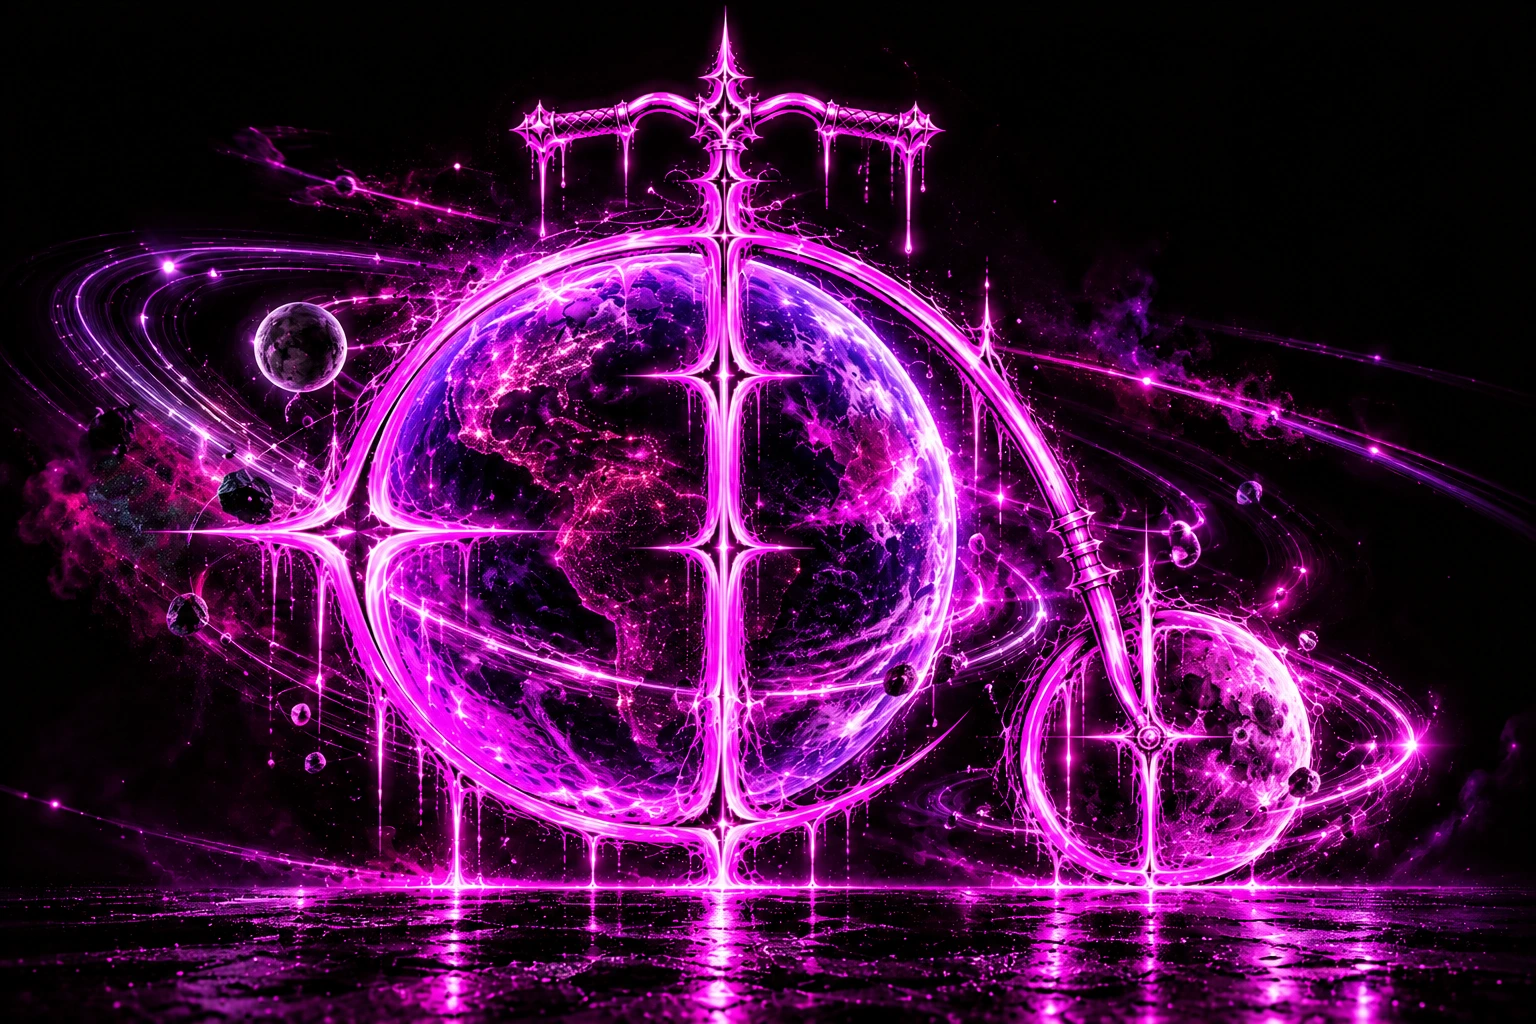
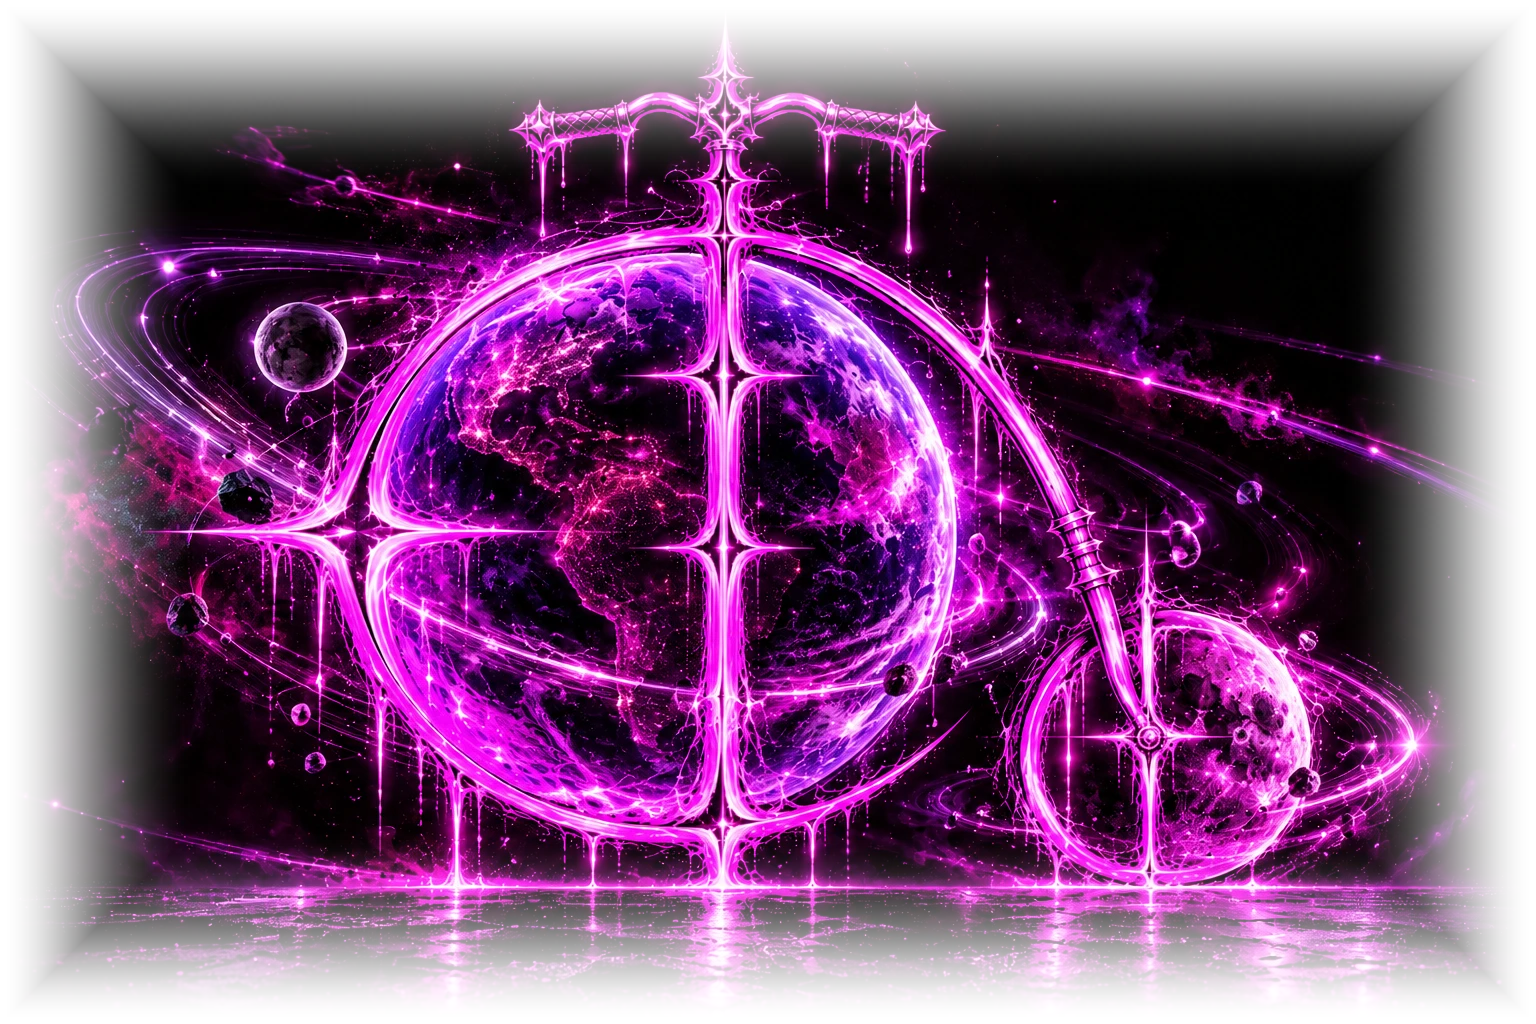
Entrada: sin símbolo bajo las letras, letras más grandes, bici planetaria con la cruz atravesando la M
Claude-Session: https://claude.ai/code/session_01L4De53tWkdasUVUwkvh1YC

diff --git a/index.html b/index.html
@@ -126,17 +126,12 @@
   }
 
 
-  /* ---------- universo: penny-farthing cósmica detrás del logo; Tierra y Luna giran lento, la cruz queda fija ---------- */
-  .cosmos{position:absolute; left:50%; top:50%; width:min(100%,1300px); transform:translate(-50%,-47%); z-index:0; pointer-events:none; opacity:.55;
-    -webkit-mask-image:radial-gradient(ellipse 50% 50% at 50% 50%,#000 55%,transparent 100%); mask-image:radial-gradient(ellipse 50% 50% at 50% 50%,#000 55%,transparent 100%);}
-  .cosmos svg{width:100%; height:auto; display:block}
-  .logo-wrap{position:relative; z-index:2}
   .hint{position:relative; z-index:3}
 
   /* ---------- wordmark: the real Krimelh logo (original image, untouched) with a per-letter glow layer ---------- */
   .logo-wrap{
     width:100%;
-    margin:0 auto;
+    margin:0 auto 3vh;
   }
   .logo-wrap svg{
     width:100%;
@@ -354,8 +349,10 @@
 
 <main class="stage">
   <div class="content">
-    <div class="cosmos" aria-hidden="true"><svg viewBox="0 0 1536 1024" aria-hidden="true" focusable="false">
-<defs>
+        <div class="logo-wrap">
+<svg xmlns="http://www.w3.org/2000/svg" viewBox="190 0 1330 960" role="img" aria-label="KRIMELH">
+  <title>KRIMELH</title>
+  <g class="cosmos" style="mix-blend-mode:screen" pointer-events="none" aria-hidden="true"><svg x="249.0" y="193.4" width="1167.4" height="778.2" viewBox="0 0 1536 1024"><defs>
 <clipPath id="cscT"><circle cx="666" cy="536" r="278"/></clipPath>
 <clipPath id="cscL"><circle cx="1172" cy="747" r="132"/></clipPath>
 <radialGradient id="csshT" cx="50%" cy="50%" r="50%"><stop offset="0.55" stop-color="#000" stop-opacity="0"/><stop offset="1" stop-color="#12001c" stop-opacity=".62"/></radialGradient>
@@ -378,13 +375,8 @@
 <image href="assets/entrada/cosmos/tex_luna.webp" x="1040" y="615" width="528" height="264"/>
 <image href="assets/entrada/cosmos/tex_luna.webp" x="1568" y="615" width="528" height="264"/></g>
 <circle cx="1172" cy="747" r="132" fill="url(#csshL)"/></g>
-<image href="assets/entrada/cosmos/ov_luna.webp" x="1025" y="600" width="294" height="294"/>
-</svg>
-</div>
-    <div class="logo-wrap">
-<svg xmlns="http://www.w3.org/2000/svg" viewBox="0 0 1698 926" role="img" aria-label="KRIMELH">
-  <title>KRIMELH</title>
-  <image width="1698" height="926" href="assets/entrada/logo-base.png"/>
+<image href="assets/entrada/cosmos/ov_luna.webp" x="1025" y="600" width="294" height="294"/></svg></g>
+  <image width="1698" height="926" href="assets/entrada/logo-base-sin-cruz.png"/>
     <a href="reveal.html#k" aria-label="K section" data-letter="K"><image class="glow" x="174" y="0" width="535" height="788" href="assets/entrada/glow-K.png"/><path class="hit" d="M663,12 L655,12 L630,39 L625,50 L596,81 L586,81 L580,76 L576,52 L570,51 L565,54 L559,84 L553,89 L537,88 L532,91 L532,98 L543,102 L549,110 L544,127 L538,132 L527,133 L514,146 L499,168 L486,202 L480,207 L468,206 L462,198 L462,189 L471,163 L495,115 L495,108 L490,105 L478,105 L472,100 L469,91 L469,71 L459,69 L456,73 L453,135 L447,143 L440,145 L429,139 L426,129 L428,105 L420,95 L410,11 L404,0 L397,12 L391,141 L380,162 L374,167 L357,168 L310,150 L296,148 L291,151 L293,160 L323,172 L332,182 L330,192 L318,200 L318,210 L321,213 L332,213 L337,201 L343,196 L359,197 L366,203 L368,213 L364,219 L362,238 L356,243 L339,244 L335,248 L335,259 L342,264 L363,264 L369,272 L369,278 L354,297 L328,317 L275,338 L269,348 L253,360 L221,373 L217,377 L217,383 L227,386 L269,372 L302,353 L318,354 L326,363 L326,375 L315,396 L315,404 L324,407 L329,404 L329,394 L334,381 L351,362 L363,361 L369,366 L371,409 L341,453 L344,472 L337,481 L337,487 L343,491 L353,489 L348,468 L359,455 L371,454 L377,459 L380,465 L380,483 L373,492 L367,494 L369,505 L363,513 L363,522 L369,526 L385,525 L393,534 L393,573 L387,581 L379,585 L379,591 L389,596 L395,604 L396,629 L404,636 L409,653 L409,671 L401,683 L390,688 L390,695 L405,701 L411,709 L413,743 L419,743 L428,730 L429,674 L439,661 L436,640 L439,633 L440,600 L448,591 L463,590 L469,571 L479,564 L479,557 L463,540 L462,526 L464,514 L472,501 L471,488 L477,480 L487,477 L498,483 L500,520 L506,524 L517,525 L523,533 L524,575 L527,579 L544,576 L551,578 L557,585 L564,585 L583,564 L583,559 L589,551 L600,548 L608,540 L620,541 L632,535 L627,521 L615,504 L614,470 L620,462 L630,456 L630,449 L614,439 L612,422 L594,405 L589,384 L573,368 L559,371 L551,369 L522,338 L518,331 L519,316 L511,309 L509,299 L514,292 L517,258 L524,249 L535,245 L541,223 L591,167 L624,143 L625,133 L608,129 L602,121 L602,114 L606,104 L631,70 L646,56 L651,40 L665,21Z"/></a>
   <a href="reveal.html#r" aria-label="R section" data-letter="R"><image class="glow" x="479" y="126" width="296" height="409" href="assets/entrada/glow-R.png"/><path class="hit" d="M589,170 L586,175 L585,201 L579,209 L573,211 L562,222 L534,223 L527,229 L528,247 L533,248 L545,243 L560,246 L568,255 L568,263 L553,278 L551,291 L545,296 L526,296 L522,300 L522,310 L528,314 L541,313 L556,317 L572,336 L574,354 L566,364 L566,374 L578,386 L584,408 L601,426 L631,431 L646,423 L657,429 L662,490 L672,488 L674,478 L685,470 L685,460 L693,451 L705,452 L721,474 L729,476 L731,470 L725,450 L724,431 L714,424 L706,403 L698,393 L701,375 L665,340 L667,330 L681,320 L683,312 L690,306 L692,292 L713,269 L714,261 L697,254 L691,242 L684,236 L681,222 L675,214 L675,207 L680,199 L680,193 L676,188 L665,188 L662,191 L660,208 L654,213 L644,213 L635,210 L629,202 L633,188 L631,180 L608,182 L598,170Z"/></a>
   <a href="reveal.html#i" aria-label="I section" data-letter="I"><image class="glow" x="625" y="74" width="183" height="458" href="assets/entrada/glow-I.png"/><path class="hit" d="M732,117 L725,120 L724,160 L721,166 L709,172 L688,162 L683,165 L679,174 L680,183 L695,189 L701,197 L701,224 L695,232 L695,239 L707,250 L704,268 L708,274 L708,284 L701,293 L700,316 L689,322 L674,315 L669,318 L668,333 L692,347 L710,368 L709,386 L716,454 L722,474 L722,485 L727,488 L746,481 L740,466 L741,442 L748,414 L751,378 L760,368 L760,359 L755,350 L754,311 L760,303 L759,287 L754,280 L753,255 L764,242 L764,234 L758,226 L763,195 L752,190 L746,182 L748,172 L755,166 L753,151 L758,144 L758,137 L744,131Z"/></a>
@@ -392,7 +384,7 @@
   <a href="reveal.html#e" aria-label="E section" data-letter="E"><image class="glow" x="897" y="90" width="210" height="457" href="assets/entrada/glow-E.png"/><path class="hit" d="M983,133 L978,136 L975,192 L962,204 L961,211 L955,219 L940,225 L940,234 L950,243 L959,261 L956,294 L958,314 L947,327 L947,333 L959,346 L958,375 L944,389 L945,403 L940,410 L940,419 L952,424 L958,432 L960,487 L964,491 L978,493 L985,501 L993,504 L998,501 L998,459 L1001,440 L1012,428 L1025,420 L1054,419 L1061,412 L1056,370 L1053,366 L1040,363 L1034,355 L1040,326 L1060,311 L1060,283 L1046,275 L1044,265 L1050,257 L1060,252 L1058,234 L1063,221 L1054,208 L1060,191 L1057,182 L1049,182 L1040,191 L1033,193 L1021,189 L1006,193 L995,187 L991,136Z"/></a>
   <a href="reveal.html#l" aria-label="L section" data-letter="L"><image class="glow" x="984" y="82" width="168" height="464" href="assets/entrada/glow-L.png"/><path class="hit" d="M1093,125 L1085,128 L1085,136 L1077,145 L1063,149 L1047,146 L1040,151 L1040,160 L1053,173 L1050,189 L1056,197 L1053,226 L1057,232 L1057,256 L1045,273 L1045,279 L1054,289 L1054,296 L1050,302 L1051,327 L1058,336 L1059,362 L1047,373 L1050,416 L1056,424 L1056,440 L1049,449 L1027,466 L1027,472 L1035,475 L1051,469 L1059,471 L1067,481 L1068,499 L1073,502 L1082,495 L1082,476 L1094,465 L1105,440 L1099,370 L1102,352 L1101,326 L1104,320 L1104,309 L1099,302 L1099,295 L1105,287 L1105,280 L1097,267 L1097,220 L1104,206 L1108,185 L1102,181 L1085,178 L1079,170 L1080,161 L1087,152 L1101,150 L1107,144 L1101,131Z"/></a>
   <a href="reveal.html#h" aria-label="H section" data-letter="H"><image class="glow" x="1025" y="0" width="511" height="866" href="assets/entrada/glow-H.png"/><path class="hit" d="M1256,0 L1251,73 L1244,83 L1244,94 L1235,104 L1212,101 L1206,105 L1206,113 L1210,117 L1222,120 L1229,131 L1224,171 L1229,181 L1229,196 L1221,208 L1208,211 L1204,215 L1204,225 L1221,233 L1231,251 L1231,263 L1223,272 L1182,280 L1174,271 L1173,257 L1161,248 L1159,227 L1149,216 L1150,198 L1159,188 L1171,188 L1185,182 L1185,174 L1179,168 L1176,158 L1175,98 L1170,95 L1163,98 L1163,121 L1160,132 L1149,138 L1140,135 L1134,127 L1129,59 L1122,56 L1116,60 L1112,129 L1106,137 L1093,145 L1099,160 L1099,177 L1106,190 L1106,210 L1102,220 L1106,255 L1101,268 L1094,275 L1095,283 L1104,293 L1104,299 L1095,309 L1095,320 L1108,333 L1105,356 L1109,364 L1110,385 L1107,397 L1095,405 L1092,419 L1095,443 L1084,462 L1084,481 L1068,496 L1068,550 L1073,553 L1081,550 L1081,516 L1084,510 L1090,505 L1103,506 L1112,523 L1115,569 L1120,581 L1122,627 L1127,633 L1133,633 L1137,617 L1148,611 L1155,613 L1162,622 L1171,622 L1174,615 L1172,598 L1176,494 L1173,489 L1172,466 L1157,458 L1155,447 L1166,437 L1190,440 L1193,437 L1192,416 L1198,408 L1212,407 L1221,413 L1223,425 L1212,443 L1213,449 L1227,454 L1233,462 L1233,469 L1227,477 L1213,482 L1213,490 L1223,494 L1234,509 L1235,716 L1238,721 L1252,723 L1259,732 L1261,815 L1271,823 L1276,820 L1275,774 L1279,719 L1275,709 L1275,682 L1278,677 L1277,660 L1281,653 L1282,623 L1277,616 L1281,593 L1291,586 L1292,552 L1298,540 L1298,533 L1293,525 L1293,511 L1301,502 L1321,504 L1327,500 L1327,492 L1323,488 L1311,485 L1305,477 L1305,471 L1315,459 L1327,458 L1339,464 L1386,502 L1392,503 L1397,500 L1394,490 L1344,440 L1344,429 L1347,424 L1347,416 L1343,410 L1345,329 L1355,316 L1365,311 L1377,311 L1389,324 L1394,325 L1408,318 L1412,306 L1418,301 L1431,301 L1441,311 L1446,312 L1461,299 L1490,296 L1492,288 L1484,284 L1424,285 L1402,280 L1378,285 L1344,281 L1337,272 L1326,269 L1318,259 L1307,256 L1301,250 L1301,236 L1306,231 L1315,229 L1322,220 L1335,219 L1346,227 L1354,223 L1354,217 L1348,213 L1332,219 L1321,213 L1319,203 L1326,194 L1339,193 L1353,179 L1401,168 L1405,165 L1405,159 L1400,156 L1366,161 L1350,159 L1330,171 L1313,175 L1301,169 L1299,153 L1306,141 L1308,124 L1290,120 L1276,106 L1268,0Z"/></a>
-  <a href="reveal.html" aria-label="Enter" data-letter="X"><image class="glow" x="368" y="342" width="952" height="584" href="assets/entrada/glow-cruz.png"/><path class="hit" d="M1266,809 L1261,812 L1260,837 L1262,858 L1269,861 L1274,858 L1275,816Z M423,724 L411,738 L413,852 L419,857 L426,854 L428,727Z M1126,619 L1121,620 L1120,688 L1124,694 L1129,695 L1135,691 L1135,628Z M852,385 L845,388 L842,428 L835,437 L835,448 L829,456 L812,459 L806,454 L804,444 L799,441 L779,450 L782,513 L776,521 L758,528 L745,524 L738,515 L738,503 L749,489 L749,482 L741,475 L722,482 L724,537 L732,547 L732,554 L726,562 L698,573 L689,591 L678,593 L667,587 L642,544 L628,529 L618,532 L609,541 L593,541 L589,552 L584,557 L575,559 L556,580 L557,589 L579,598 L587,612 L620,616 L628,621 L645,621 L654,631 L663,633 L669,641 L669,664 L672,672 L682,670 L683,656 L691,647 L701,647 L712,657 L716,702 L721,705 L737,705 L743,716 L754,720 L760,728 L758,739 L752,744 L745,745 L742,748 L742,755 L748,759 L761,760 L767,768 L767,814 L772,817 L779,814 L780,784 L786,776 L793,774 L800,776 L806,784 L806,814 L811,817 L822,817 L830,826 L830,843 L822,855 L822,861 L833,866 L839,874 L842,925 L855,925 L856,887 L861,850 L871,838 L865,813 L868,805 L876,798 L873,781 L884,769 L886,753 L893,747 L905,745 L914,746 L925,752 L936,741 L943,739 L950,741 L957,750 L965,750 L968,741 L968,700 L979,689 L982,653 L988,648 L998,648 L1004,653 L1008,664 L1016,664 L1020,628 L1027,619 L1040,616 L1059,623 L1072,612 L1106,608 L1106,600 L1101,597 L1041,595 L1034,593 L1025,585 L1008,591 L999,589 L993,581 L998,562 L990,557 L981,560 L971,559 L963,550 L965,540 L972,534 L980,532 L991,535 L996,532 L998,498 L990,493 L976,494 L966,488 L959,492 L956,511 L950,516 L939,516 L933,511 L929,498 L910,489 L906,473 L873,466 L863,451 L858,389Z"/></a>
+  
 </svg>
     </div>
 
